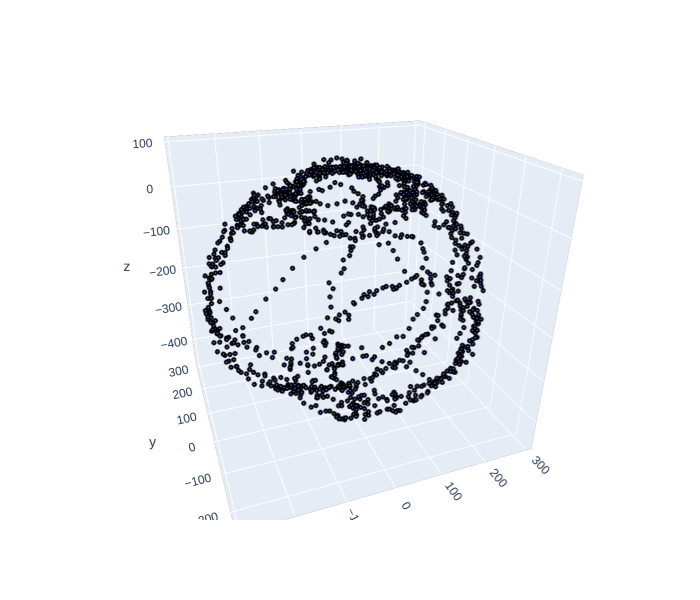
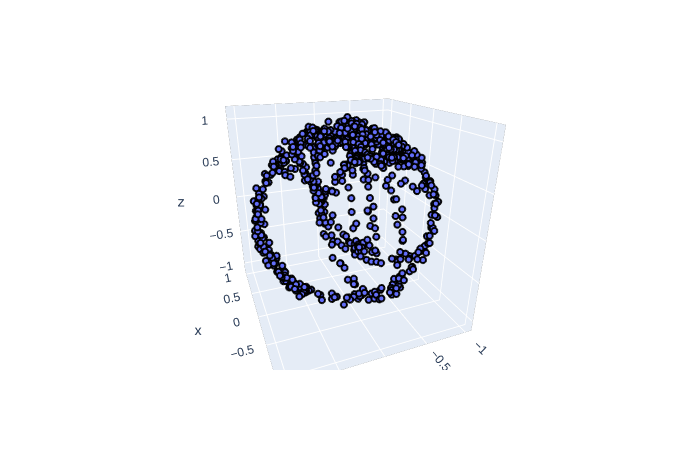
Updated README

Changed region(s): [[0.18, 0.1867, 0.84, 0.8711]]

diff --git a/README.md b/README.md
@@ -28,7 +28,7 @@ This piece of software is amazing. I learn so much from reviewing the informatio
 https://www.segger.com/products/development-tools/systemview/
 
 ### Interactive data visualization
-This is pretty nice to have. I wanted to avoid an ellipsoid fit algorithm for calibrating my mag, but after seeing the data in 3D I realized a simplistic algorithm was probably not going to work. This is also going to come in handy for visualizing my estimated attitudes.<br/>
+Created a tool in C++ that reads and parses mag data via a serial port, runs an ellipsoid fit algorithm on the data set, and then plots the data in 3D with the caclulated offsets and scales for each axis. The plot is a 3D interactive plot created with `plotly`.<br/>
 https://plot.ly/python/3d-scatter-plots/
 
 ![Image description](mag_data.png)
